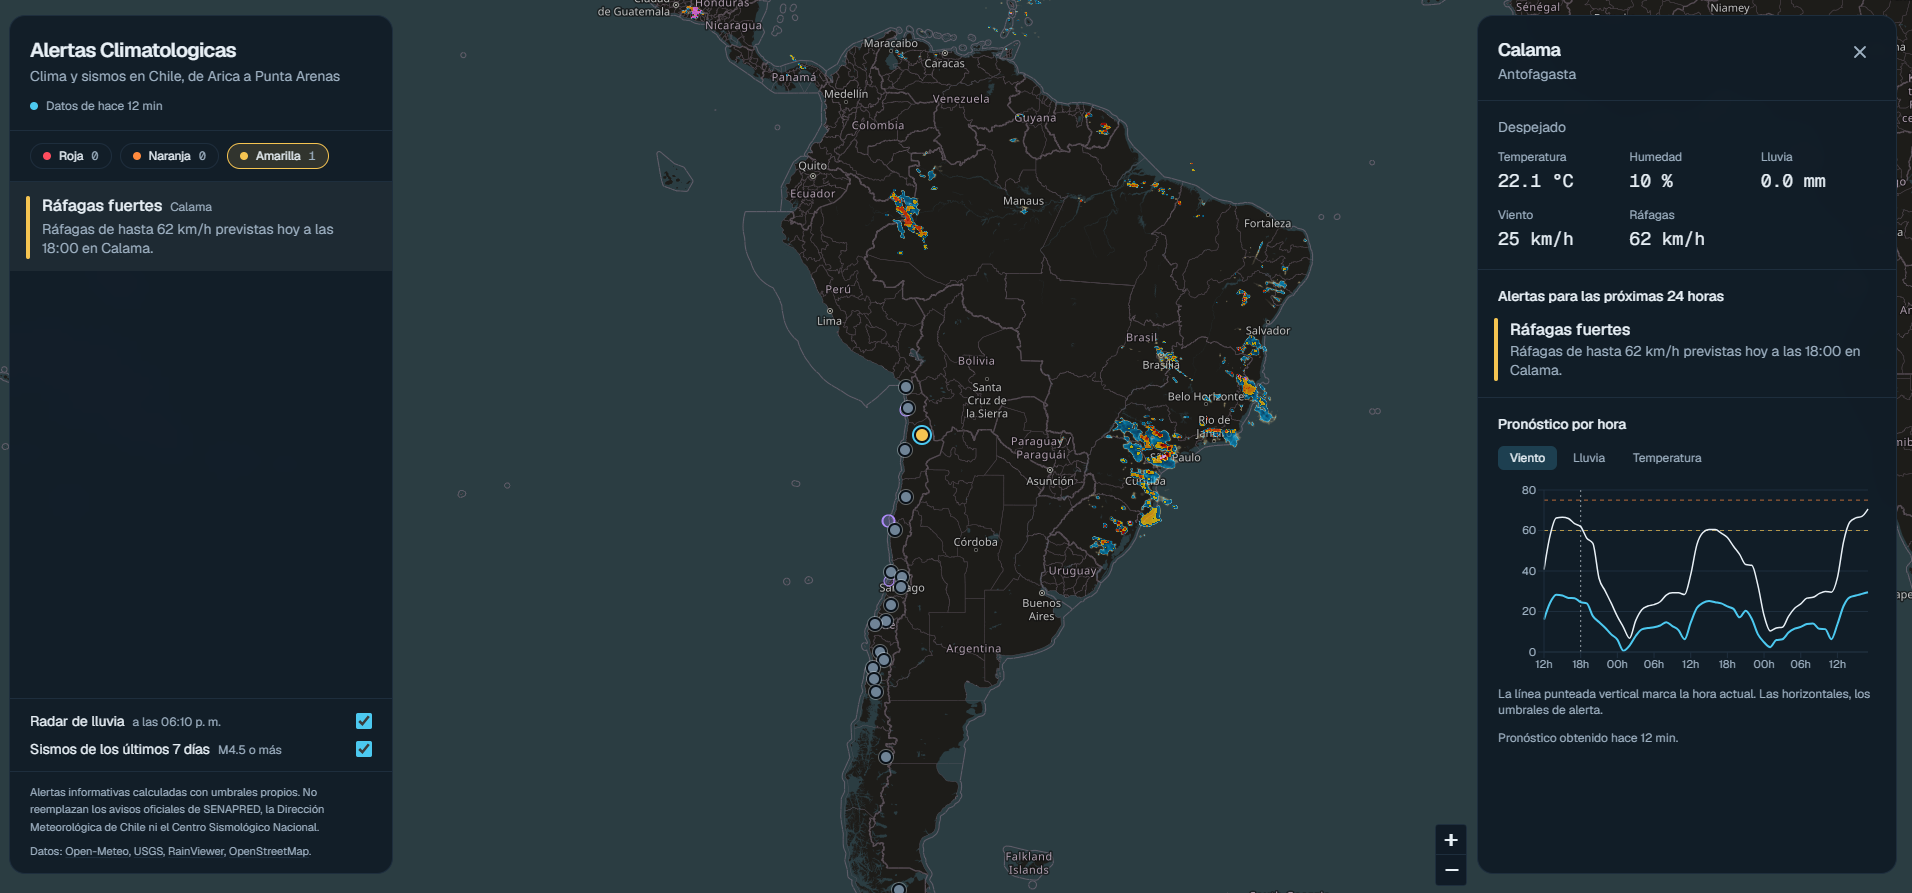
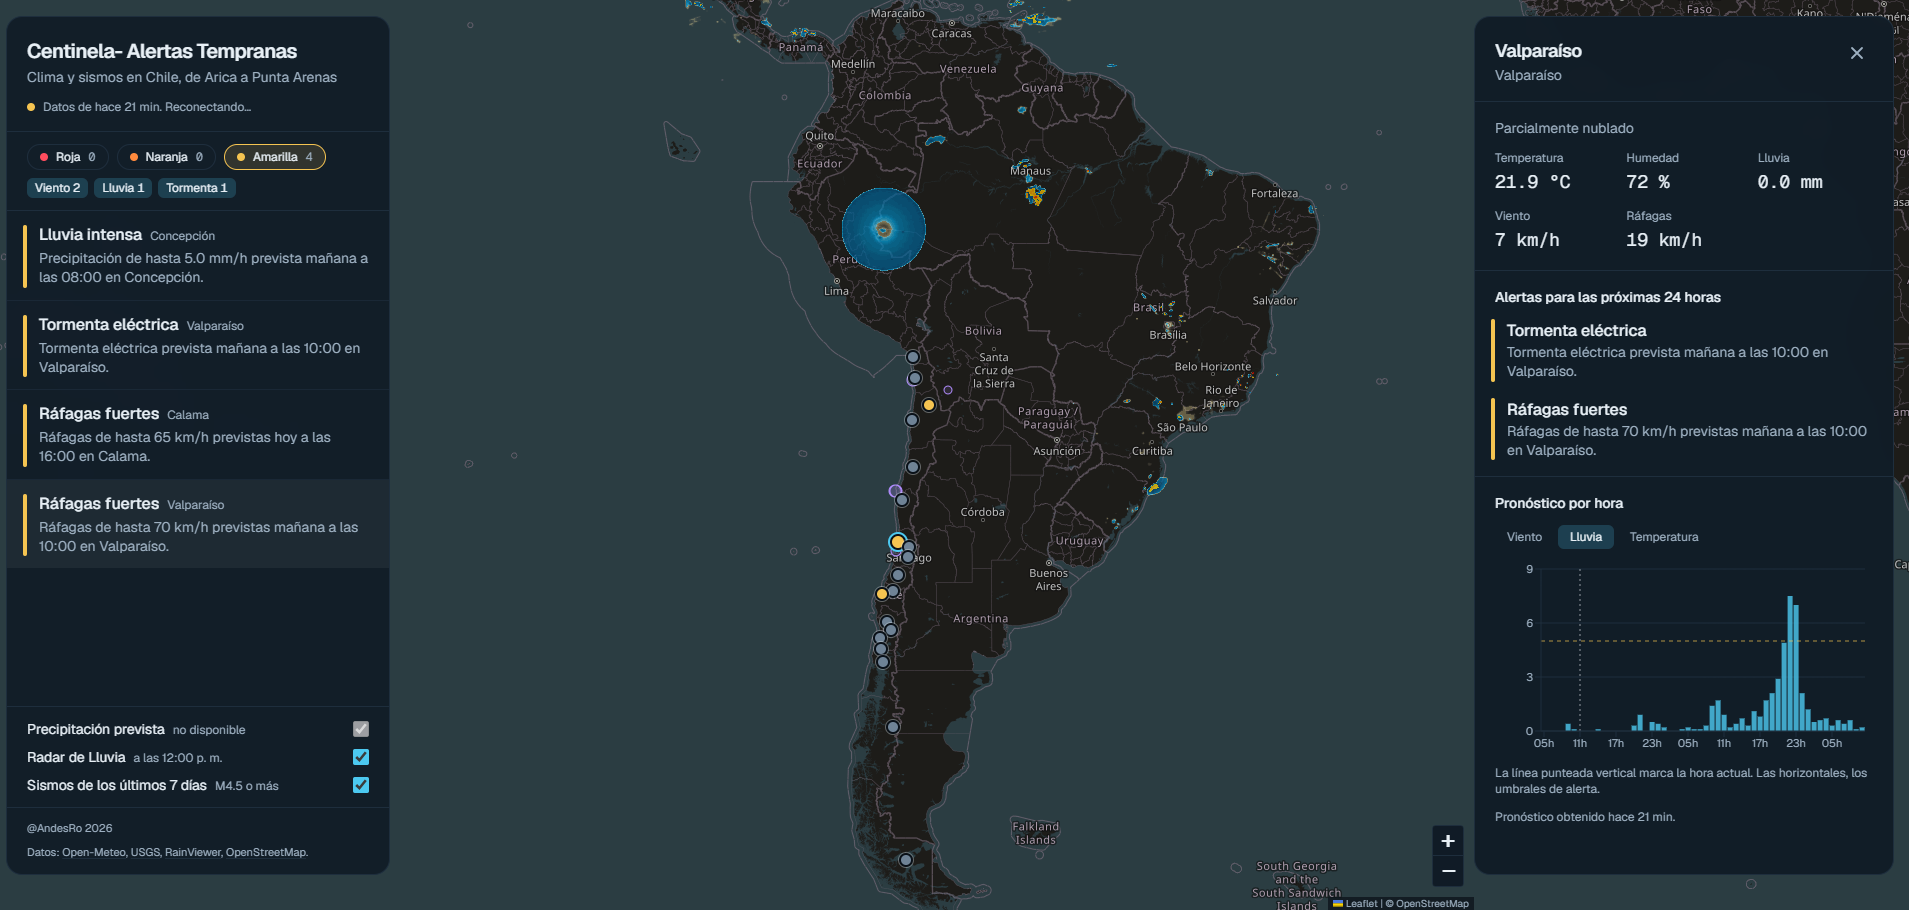
first commit

diff --git a/frontend/src/components/SidePanel.tsx b/frontend/src/components/SidePanel.tsx
@@ -258,13 +258,13 @@ export function SidePanel({
         </label>
         <label className="flex cursor-pointer items-center justify-between gap-3">
           <span>
-            Radar RainViewer
+            Radar de Lluvia
             <span className="ml-2 text-xs text-fog">
               {radarFailed
                 ? "no disponible"
                 : layers.radar && radarTime
                   ? `a las ${clockFromEpoch(radarTime)}`
-                  : "cobertura limitada en Chile"}
+                  : ""}
             </span>
           </span>
           <input
